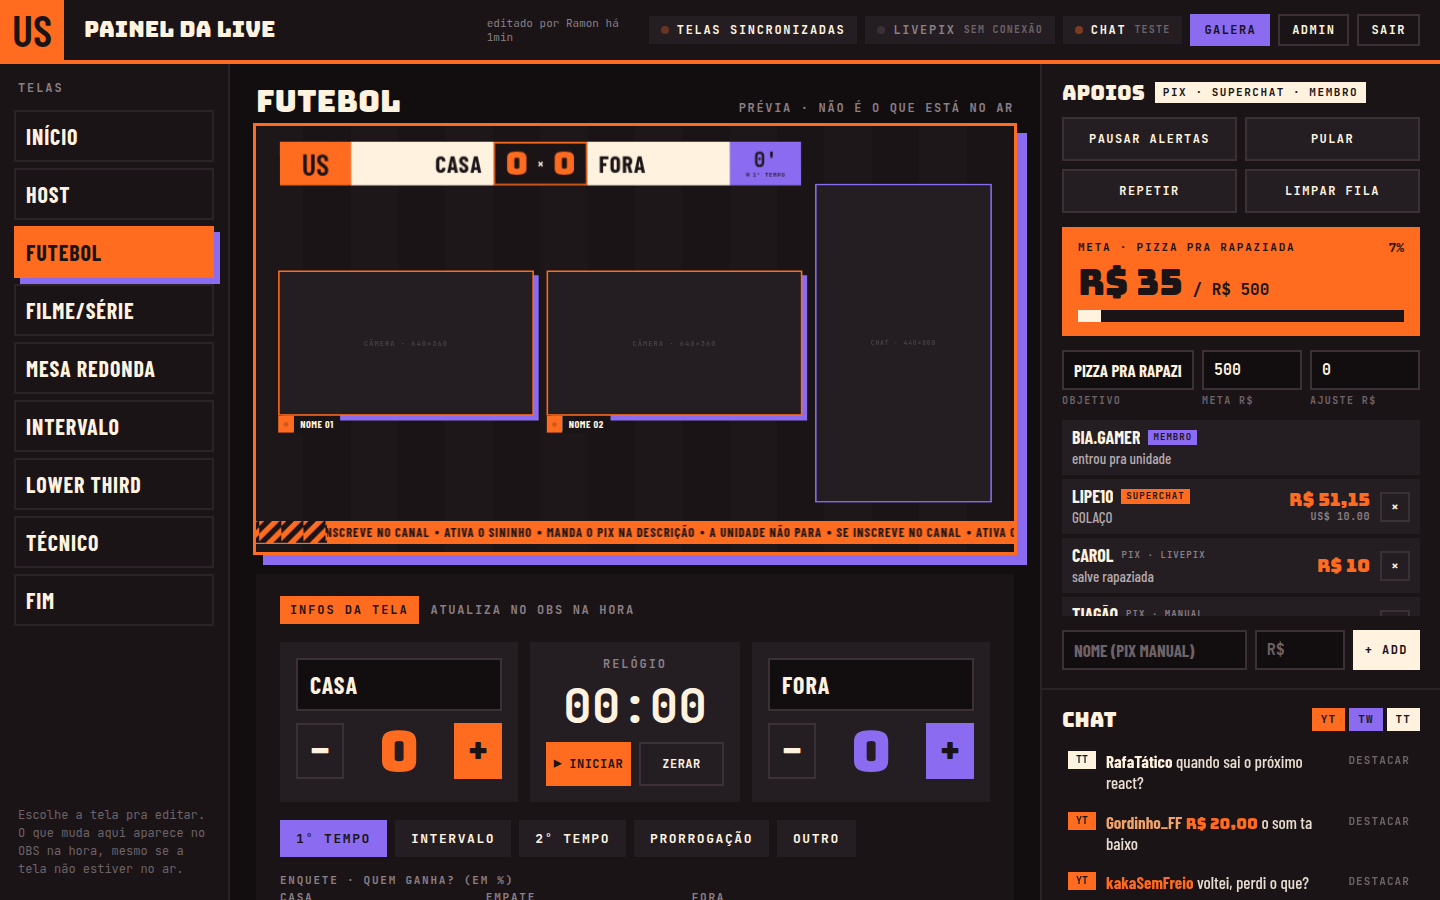
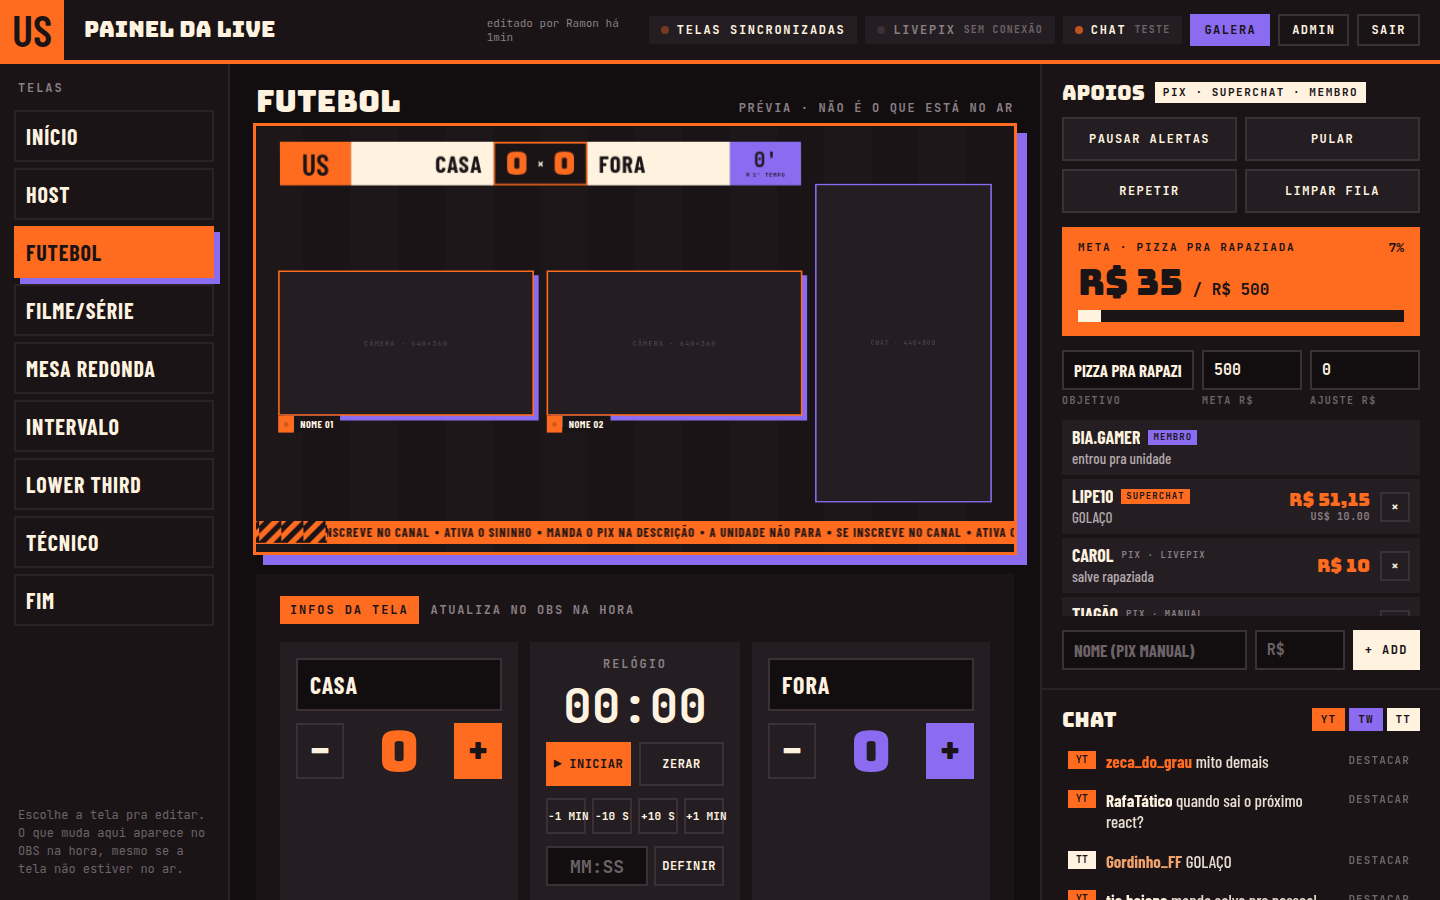
feat(painel): ajuste do relógio do FUTEBOL, gol somado no banco e versão contra resposta atrasada

Changed region(s): [[0.7188, 0.84, 1.0, 1.0], [0.1875, 0.9022, 0.5312, 1.0]]

diff --git a/src/painel/CamposTela.tsx b/src/painel/CamposTela.tsx
@@ -1,6 +1,7 @@
+import { useState } from 'react';
 import type { useLive } from '../live/useLive';
 import { JOGO_OPCOES, type PatchLive, type TelaId } from '../live/tipos';
-import { mmss, segundosJogo } from '../live/relogios';
+import { lerTempo, mmss, segundosJogo } from '../live/relogios';
 import { useAgora } from '../live/relogioServidor';
 import { CampoTexto } from './CampoTexto';
 import { CampoCamera } from './CampoCamera';
@@ -81,11 +82,11 @@ function CamposFutebol({ live }: { live: Live }) {
         <div className="p-placar__lado">
           <CampoTexto className="p-input p-input--time" valor={estado.timeA} maiusculo aoMudar={(v) => salvarDepois({ timeA: v })} title="Time da casa" />
           <div className="p-placar__gols">
-            <button type="button" className="p-placar__menos" onClick={() => salvar({ golsA: Math.max(0, estado.golsA - 1) })}>
+            <button type="button" className="p-placar__menos" onClick={() => live.gol('A', -1)}>
               −
             </button>
             <div className="p-placar__numero">{estado.golsA}</div>
-            <button type="button" className="p-placar__mais" onClick={() => salvar({ golsA: estado.golsA + 1 })}>
+            <button type="button" className="p-placar__mais" onClick={() => live.gol('A', 1)}>
               +
             </button>
           </div>
@@ -99,21 +100,22 @@ function CamposFutebol({ live }: { live: Live }) {
               className={estado.clockRodando ? 'p-relogio__play p-relogio__play--rodando' : 'p-relogio__play'}
               onClick={() => live.relogio(estado.clockRodando ? 'pausar' : 'iniciar')}
             >
-              {estado.clockRodando ? '❚❚ PAUSAR' : '▶ INICIAR'}
+              {estado.clockRodando ? '❚❚ PAUSAR' : estado.clockAcumulado > 0 ? '▶ RETOMAR' : '▶ INICIAR'}
             </button>
             <button type="button" className="p-botao-contorno" onClick={() => live.relogio('zerar')}>
               ZERAR
             </button>
           </div>
+          <AjusteRelogio live={live} />
         </div>
         <div className="p-placar__lado">
           <CampoTexto className="p-input p-input--time p-input--time-b" valor={estado.timeB} maiusculo aoMudar={(v) => salvarDepois({ timeB: v })} title="Time de fora" />
           <div className="p-placar__gols">
-            <button type="button" className="p-placar__menos" onClick={() => salvar({ golsB: Math.max(0, estado.golsB - 1) })}>
+            <button type="button" className="p-placar__menos" onClick={() => live.gol('B', -1)}>
               −
             </button>
             <div className="p-placar__numero p-placar__numero--b">{estado.golsB}</div>
-            <button type="button" className="p-placar__mais p-placar__mais--b" onClick={() => salvar({ golsB: estado.golsB + 1 })}>
+            <button type="button" className="p-placar__mais p-placar__mais--b" onClick={() => live.gol('B', 1)}>
               +
             </button>
           </div>
@@ -203,6 +205,57 @@ function CamposLower({ live }: { live: Live }) {
         <CampoTexto rotulo="NOME" valor={estado.ltNome} maiusculo aoMudar={(v) => live.salvarDepois({ ltNome: v })} />
         <CampoTexto rotulo="FUNÇÃO / LEGENDA" valor={estado.funcao} maiusculo aoMudar={(v) => live.salvarDepois({ funcao: v })} />
       </div>
+    </>
+  );
+}
+
+const AJUSTES = [
+  { rotulo: '−1 MIN', seg: -60 },
+  { rotulo: '−10 S', seg: -10 },
+  { rotulo: '+10 S', seg: 10 },
+  { rotulo: '+1 MIN', seg: 60 },
+];
+
+// Ressincroniza o relógio com a transmissão: a conta é feita no banco, pela hora do servidor.
+function AjusteRelogio({ live }: { live: Live }) {
+  const [texto, setTexto] = useState('');
+  const [invalido, setInvalido] = useState(false);
+
+  function definir(e: React.FormEvent) {
+    e.preventDefault();
+    const seg = lerTempo(texto);
+    if (seg == null) return setInvalido(true);
+    live.relogio('definir', seg);
+    setTexto('');
+  }
+
+  return (
+    <>
+      <div className="p-relogio__ajustes">
+        {AJUSTES.map((a) => (
+          <button key={a.rotulo} type="button" className="p-relogio__ajuste" onClick={() => live.relogio('ajustar', a.seg)}>
+            {a.rotulo}
+          </button>
+        ))}
+      </div>
+      <form className="p-relogio__exato" onSubmit={definir}>
+        <input
+          className="p-input p-relogio__campo"
+          aria-label="TEMPO EXATO"
+          aria-invalid={invalido}
+          inputMode="numeric"
+          placeholder="MM:SS"
+          maxLength={5}
+          value={texto}
+          onChange={(e) => {
+            setTexto(e.target.value);
+            setInvalido(false);
+          }}
+        />
+        <button type="submit" className="p-botao-contorno">
+          DEFINIR
+        </button>
+      </form>
     </>
   );
 }

diff --git a/src/live/useLive.test.ts b/src/live/useLive.test.ts
@@ -31,8 +31,8 @@ vi.mock('../lib/supabase', () => {
 import { supabase } from '../lib/supabase';
 import { useLive } from './useLive';
 
-function linha(estado: object, nome: string | null = null) {
-  return { estado: { ...ESTADO_PADRAO, ...estado }, updated_at: '2026-09-28T20:00:00Z', updated_by_nome: nome };
+function linha(estado: object, nome: string | null = null, versao?: number) {
+  return { estado: { ...ESTADO_PADRAO, ...estado }, updated_at: '2026-09-28T20:00:00Z', updated_by_nome: nome, versao };
 }
 
 beforeEach(() => {
@@ -212,6 +212,56 @@ describe('useLive', () => {
     await act(() => result.current.reiniciarContagem());
     expect(supabase.rpc).toHaveBeenCalledWith('controlar_relogio', { p_slug: 'principal', p_acao: 'iniciar' });
     expect(supabase.rpc).toHaveBeenCalledWith('reiniciar_contagem', { p_slug: 'principal' });
+  });
+
+  it('resposta atrasada da RPC (versão menor) não traz de volta o estado velho', async () => {
+    let responder!: (v: unknown) => void;
+    vi.mocked(supabase.rpc).mockReturnValue(new Promise((r) => (responder = r)) as never);
+    const { result } = renderHook(() => useLive());
+    await waitFor(() => expect(result.current.status).toBe('ao_vivo'));
+    let envio!: Promise<void>;
+    act(() => void (envio = result.current.salvar({ titulo: 'MEU' })));
+    // o eco da minha gravação e depois a de outra pessoa chegam antes da resposta
+    act(() => handlerUpdate!({ new: linha({ titulo: 'MEU' }, 'Eu', 7) }));
+    act(() => handlerUpdate!({ new: linha({ titulo: 'DO OUTRO' }, 'Bia', 8) }));
+    await act(async () => {
+      responder({ data: linha({ titulo: 'MEU' }, 'Eu', 7), error: null });
+      await envio;
+    });
+    expect(result.current.estado.titulo).toBe('DO OUTRO');
+    expect(result.current.editadoPor).toBe('Bia');
+  });
+
+  it('versão igual ou maior entra; linha sem versão (antes da 0008) também', async () => {
+    const { result } = renderHook(() => useLive());
+    await waitFor(() => expect(result.current.status).toBe('ao_vivo'));
+    act(() => handlerUpdate!({ new: linha({ titulo: 'V5' }, null, 5) }));
+    act(() => handlerUpdate!({ new: linha({ titulo: 'V5 DE NOVO' }, null, 5) }));
+    expect(result.current.estado.titulo).toBe('V5 DE NOVO');
+    act(() => handlerUpdate!({ new: linha({ titulo: 'V4' }, null, 4) }));
+    expect(result.current.estado.titulo).toBe('V5 DE NOVO');
+    act(() => handlerUpdate!({ new: linha({ titulo: 'SEM VERSÃO' }) }));
+    expect(result.current.estado.titulo).toBe('SEM VERSÃO');
+  });
+
+  it('gol vai pela RPC que soma no banco e aplica a resposta', async () => {
+    vi.mocked(supabase.rpc).mockResolvedValue({ data: linha({ golsA: 3 }, 'Eu', 9), error: null } as never);
+    const { result } = renderHook(() => useLive());
+    await waitFor(() => expect(result.current.status).toBe('ao_vivo'));
+    await act(() => result.current.gol('A', 1));
+    expect(supabase.rpc).toHaveBeenCalledWith('somar_gol', { p_slug: 'principal', p_lado: 'A', p_delta: 1 });
+    expect(result.current.estado.golsA).toBe(3);
+  });
+
+  it('ajustar e definir o relógio mandam os segundos e aplicam a resposta', async () => {
+    vi.mocked(supabase.rpc).mockResolvedValue({ data: linha({ clockAcumulado: 70 }, 'Eu', 3), error: null } as never);
+    const { result } = renderHook(() => useLive());
+    await waitFor(() => expect(result.current.status).toBe('ao_vivo'));
+    await act(() => result.current.relogio('ajustar', 10));
+    await act(() => result.current.relogio('definir', 2232));
+    expect(supabase.rpc).toHaveBeenCalledWith('controlar_relogio', { p_slug: 'principal', p_acao: 'ajustar', p_segundos: 10 });
+    expect(supabase.rpc).toHaveBeenCalledWith('controlar_relogio', { p_slug: 'principal', p_acao: 'definir', p_segundos: 2232 });
+    expect(result.current.estado.clockAcumulado).toBe(70);
   });
 
   it('fixture não toca no Supabase', () => {

diff --git a/src/painel/CamposTela.test.tsx b/src/painel/CamposTela.test.tsx
@@ -6,7 +6,7 @@ vi.mock('../live/relogioServidor', () => ({ useAgora: () => 0 }));
 import { CamposTela } from './CamposTela';
 
 function live(extra = {}) {
-  return { estado: { ...ESTADO_PADRAO, galera: [{ id: '1', nome: 'ANA', funcao: 'HOST' }], ...extra }, status: 'ao_vivo', editadoPor: null, editadoEm: null, salvar: vi.fn(), salvarDepois: vi.fn(), reiniciarContagem: vi.fn(), relogio: vi.fn() } as never;
+  return { estado: { ...ESTADO_PADRAO, galera: [{ id: '1', nome: 'ANA', funcao: 'HOST' }], ...extra }, status: 'ao_vivo', editadoPor: null, editadoEm: null, salvar: vi.fn(), salvarDepois: vi.fn(), reiniciarContagem: vi.fn(), relogio: vi.fn(), gol: vi.fn() } as never;
 }
 
 describe('CamposTela', () => {
@@ -14,13 +14,45 @@ describe('CamposTela', () => {
     const l = live({ golsA: 1 });
     render(<CamposTela tela="futebol" live={l} />);
     fireEvent.click(screen.getAllByText('+')[0]);
-    expect((l as { salvar: ReturnType<typeof vi.fn> }).salvar).toHaveBeenCalledWith({ golsA: 2 });
+    expect((l as { gol: ReturnType<typeof vi.fn> }).gol).toHaveBeenCalledWith('A', 1);
+    fireEvent.click(screen.getAllByText('−')[1]);
+    expect((l as { gol: ReturnType<typeof vi.fn> }).gol).toHaveBeenCalledWith('B', -1);
     fireEvent.click(screen.getByText('▶ INICIAR'));
     expect((l as { relogio: ReturnType<typeof vi.fn> }).relogio).toHaveBeenCalledWith('iniciar');
     fireEvent.click(screen.getByText('OUTRO'));
     expect((l as { salvar: ReturnType<typeof vi.fn> }).salvar).toHaveBeenCalledWith({ jogo: 'OUTRO' });
     fireEvent.click(screen.getByText('MOSTRAR'));
     expect((l as { salvar: ReturnType<typeof vi.fn> }).salvar).toHaveBeenCalledWith({ 'enquete.mostrar': true });
+  });
+
+  it('futebol: ajuste rápido e tempo exato do relógio', () => {
+    const l = live();
+    const relogio = (l as { relogio: ReturnType<typeof vi.fn> }).relogio;
+    render(<CamposTela tela="futebol" live={l} />);
+    fireEvent.click(screen.getByRole('button', { name: '−1 MIN' }));
+    fireEvent.click(screen.getByRole('button', { name: '−10 S' }));
+    fireEvent.click(screen.getByRole('button', { name: '+10 S' }));
+    fireEvent.click(screen.getByRole('button', { name: '+1 MIN' }));
+    expect(relogio.mock.calls).toEqual([['ajustar', -60], ['ajustar', -10], ['ajustar', 10], ['ajustar', 60]]);
+
+    const campo = screen.getByLabelText('TEMPO EXATO');
+    fireEvent.change(campo, { target: { value: '37:12' } });
+    fireEvent.submit(campo);
+    expect(relogio).toHaveBeenLastCalledWith('definir', 2232);
+    expect((campo as HTMLInputElement).value).toBe('');
+
+    relogio.mockClear();
+    fireEvent.change(campo, { target: { value: '1:75' } });
+    fireEvent.click(screen.getByRole('button', { name: 'DEFINIR' }));
+    expect(relogio).not.toHaveBeenCalled();
+    expect(campo.getAttribute('aria-invalid')).toBe('true');
+  });
+
+  it('futebol: pausado com tempo corrido mostra RETOMAR', () => {
+    const l = live({ clockAcumulado: 600, clockRodando: false });
+    render(<CamposTela tela="futebol" live={l} />);
+    fireEvent.click(screen.getByText('▶ RETOMAR'));
+    expect((l as { relogio: ReturnType<typeof vi.fn> }).relogio).toHaveBeenCalledWith('iniciar');
   });
 
   it('lower: escolher alguém da galera preenche nome e função', () => {

diff --git a/src/live/useLive.ts b/src/live/useLive.ts
@@ -11,6 +11,7 @@ interface Linha {
   estado: Partial<EstadoLive>;
   updated_at: string;
   updated_by_nome: string | null;
+  versao?: number; // sobe a cada mudança da sala (0008)
 }
 
 // Último estado recebido, guardado no navegador (a fonte do OBS guarda entre cenas e sessões):
@@ -47,9 +48,15 @@ export function useLive(opcoes: { fixture?: EstadoLive; guardarLocal?: boolean }
   // valores esperando os 400 ms pra ir ao banco (o que descarregar() manda de uma vez)
   const aguardando = useRef(new Map<string, unknown>());
   const ultimos = useRef(new Map<string, unknown>());
+  // maior versão já aplicada: resposta de RPC que chega depois de um eco mais novo é descartada
+  const versao = useRef(0);
 
   const aplicar = useCallback(
     (l: Linha) => {
+      if (l.versao != null) {
+        if (l.versao < versao.current) return;
+        versao.current = l.versao;
+      }
       setServidor({ ...ESTADO_PADRAO, ...l.estado });
       setEditado({ por: l.updated_by_nome, em: l.updated_at });
       if (guardarLocal) gravarLocal(l.estado);
@@ -69,7 +76,7 @@ export function useLive(opcoes: { fixture?: EstadoLive; guardarLocal?: boolean }
       const meu = ++pedido;
       supabase
         .from('salas')
-        .select('estado, updated_at, updated_by_nome')
+        .select('estado, updated_at, updated_by_nome, versao')
         .eq('slug', SLUG)
         .single()
         .then(({ data, error }: { data: Linha | null; error: unknown }) => {
@@ -187,15 +194,27 @@ export function useLive(opcoes: { fixture?: EstadoLive; guardarLocal?: boolean }
     };
   }, [fixture, descarregar]);
 
-  const reiniciarContagem = useCallback(async () => {
-    const { error } = await supabase.rpc('reiniciar_contagem', { p_slug: SLUG });
-    if (error) setStatus('reconectando');
-  }, []);
+  // RPCs que calculam no banco: a resposta já traz a sala gravada (com a versão)
+  const chamar = useCallback(
+    async (nome: string, args: Record<string, unknown>) => {
+      const { data, error } = await supabase.rpc(nome, { p_slug: SLUG, ...args });
+      if (error) setStatus('reconectando');
+      else if (data) aplicar(data as Linha);
+    },
+    [aplicar],
+  );
 
-  const relogio = useCallback(async (acao: 'iniciar' | 'pausar' | 'zerar') => {
-    const { error } = await supabase.rpc('controlar_relogio', { p_slug: SLUG, p_acao: acao });
-    if (error) setStatus('reconectando');
-  }, []);
+  const reiniciarContagem = useCallback(() => chamar('reiniciar_contagem', {}), [chamar]);
+
+  // ajustar: ± segundos; definir: tempo exato em segundos
+  const relogio = useCallback(
+    (acao: 'iniciar' | 'pausar' | 'zerar' | 'ajustar' | 'definir', segundos?: number) =>
+      chamar('controlar_relogio', { p_acao: acao, ...(segundos != null ? { p_segundos: segundos } : {}) }),
+    [chamar],
+  );
+
+  // soma no banco: dois painéis clicando "+" ao mesmo tempo contam os dois gols
+  const gol = useCallback((lado: 'A' | 'B', delta: 1 | -1) => chamar('somar_gol', { p_lado: lado, p_delta: delta }), [chamar]);
 
   return {
     estado: aplicarPatch(servidor, pendentes),
@@ -206,5 +225,6 @@ export function useLive(opcoes: { fixture?: EstadoLive; guardarLocal?: boolean }
     salvarDepois,
     reiniciarContagem,
     relogio,
+    gol,
   };
 }

diff --git a/src/painel/painel.css b/src/painel/painel.css
@@ -110,6 +110,14 @@
 .p-relogio__botoes { display: grid; grid-template-columns: 1fr 1fr; gap: 8px; }
 .p-relogio__play { height: 44px; border: 0; background: #FF6B1F; color: #1A1417; font: 700 12px/1 'JetBrains Mono', monospace !important; letter-spacing: .12em; cursor: pointer; }
 .p-relogio__play--rodando { background: #FFF3E0; }
+.p-relogio__ajustes { display: grid; grid-template-columns: repeat(4, minmax(0, 1fr)); gap: 6px; }
+.p-relogio__ajuste { height: 36px; padding: 0; border: 2px solid #3a3035; background: transparent; color: #FFF3E0; font: 700 11px/1 'JetBrains Mono', monospace !important; letter-spacing: .02em; white-space: nowrap; cursor: pointer; }
+.p-relogio__ajuste:hover { border-color: #FF6B1F; color: #FF6B1F; }
+.p-relogio__ajuste:active { transform: translateY(1px); }
+.p-relogio__exato { display: grid; grid-template-columns: minmax(0, 1fr) auto; gap: 6px; }
+.p-relogio__campo { height: 40px; padding: 0 10px; font: 700 18px/1 'JetBrains Mono', monospace; text-align: center; }
+.p-relogio__campo[aria-invalid='true'] { border-color: #ff4d4d; }
+.p-relogio__exato .p-botao-contorno { height: 40px; padding: 0 10px; }
 .p-enquete { display: grid; grid-template-columns: repeat(3, minmax(0, 1fr)) auto; gap: 12px; align-items: end; }
 .p-chave { height: 46px; padding: 0 16px; border: 0; cursor: pointer; font: 700 12px/1 'JetBrains Mono', monospace !important; letter-spacing: .12em; background: #241d21; color: #FFF3E0; }
 .p-chave--ligada { background: #8B6CF0; color: #1A1417; }

diff --git a/src/live/relogios.test.ts b/src/live/relogios.test.ts
@@ -1,5 +1,5 @@
 import { describe, expect, it } from 'vitest';
-import { bolinhasCheias, mmss, segundosJogo, segundosRestantes } from './relogios';
+import { bolinhasCheias, lerTempo, mmss, segundosJogo, segundosRestantes } from './relogios';
 
 describe('segundosRestantes', () => {
   it('parado (sem timerInicio) mostra o total', () => {
@@ -39,5 +39,21 @@ describe('mmss', () => {
     expect(mmss(0)).toBe('00:00');
     expect(mmss(305)).toBe('05:05');
     expect(mmss(6000)).toBe('100:00');
+  });
+});
+
+describe('lerTempo (campo do tempo exato do FUTEBOL)', () => {
+  it('MM:SS vira segundos', () => {
+    expect(lerTempo('37:12')).toBe(2232);
+    expect(lerTempo(' 0:05 ')).toBe(5);
+    expect(lerTempo('99:59')).toBe(5999);
+    expect(lerTempo('45:00')).toBe(2700);
+  });
+  it('só minutos também vale', () => {
+    expect(lerTempo('45')).toBe(2700);
+    expect(lerTempo('0')).toBe(0);
+  });
+  it('recusa o que não é tempo', () => {
+    for (const t of ['', 'abc', '1:60', '100:00', '12:3', '-1:00', '1:2:3', '45min']) expect(lerTempo(t)).toBeNull();
   });
 });

diff --git a/src/live/relogios.ts b/src/live/relogios.ts
@@ -23,3 +23,11 @@ export function mmss(seg: number): string {
   const s = Math.max(0, Math.floor(seg));
   return `${String(Math.floor(s / 60)).padStart(2, '0')}:${String(s % 60).padStart(2, '0')}`;
 }
+
+/** Tempo digitado no painel ("37:12" ou só minutos, "45") em segundos; null se não for tempo. */
+export function lerTempo(texto: string): number | null {
+  const m = texto.trim().match(/^(\d{1,2})(?::(\d{2}))?$/);
+  if (!m) return null;
+  const seg = m[2] != null ? Number(m[2]) : 0;
+  return seg < 60 ? Number(m[1]) * 60 + seg : null;
+}
